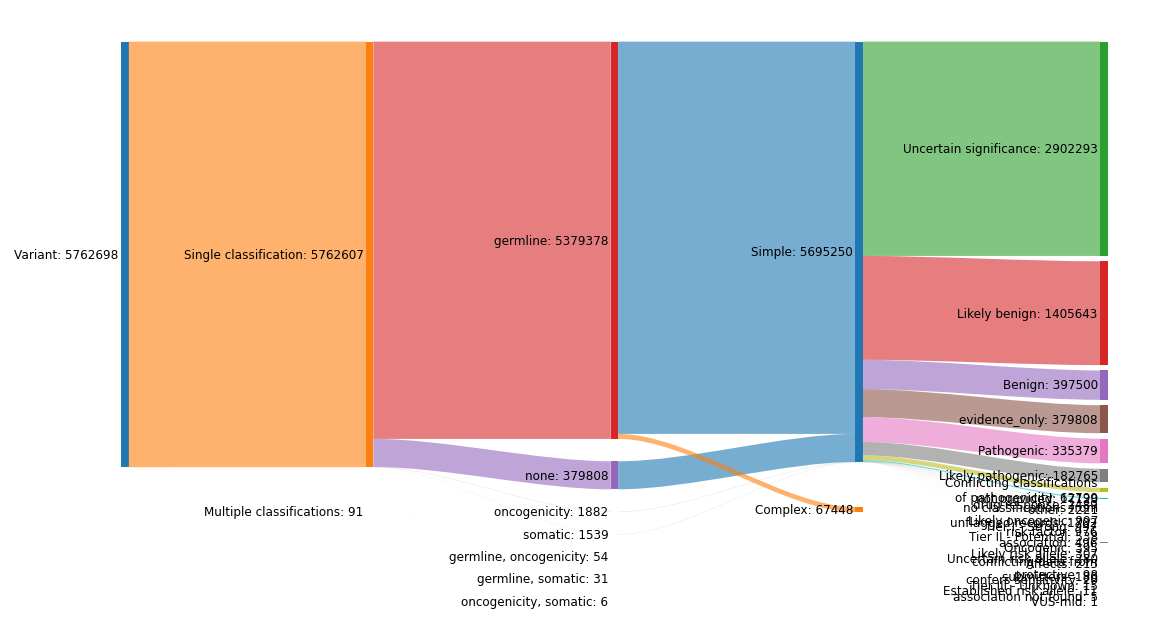
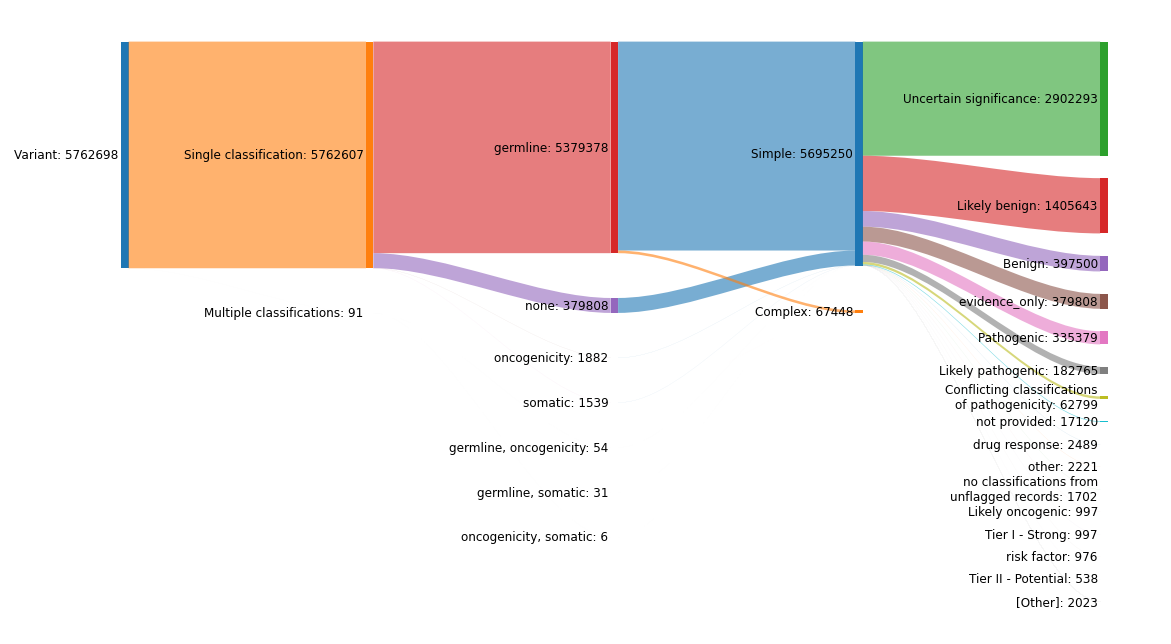
update classifcation and star rating diagrams

diff --git a/data-exploration/clinvar-variant-types/clinvar-variant-types.py b/data-exploration/clinvar-variant-types/clinvar-variant-types.py
@@ -61,8 +61,7 @@ class SankeyDiagram(Counter):
         s.draw()
         plt.savefig(self.name, bbox_inches='tight')
 
-    def _format_label(self, label):
-        max_len = 20
+    def _format_label(self, label, max_len=20):
         words = label.split()
         lines = []
         line = []
@@ -75,7 +74,7 @@ class SankeyDiagram(Counter):
 
     def _apply_threshold(self, nodes, flows, threshold):
         """Recompute nodes and flows by combining nodes at the final level with value less than threshold."""
-        new_node_name = 'Other'
+        new_node_name = '[Other]'
         new_nodes = nodes[:-1]
         new_final_level = []
         new_value = 0
@@ -382,8 +381,8 @@ def main(clinvar_xml, process_items=None):
     # Output the code for Sankey diagrams. Transitions are sorted in decreasing number of counts, so that the most frequent
     # cases are on top.
     for sankey_diagram in (sankey_variation_representation, sankey_trait_representation, sankey_trait_quality,
-                           sankey_clinical_classification, sankey_somatic_classification,
-                           sankey_mode_of_inheritance, sankey_allele_origin, sankey_inheritance_origin):
+                           sankey_somatic_classification, sankey_mode_of_inheritance, sankey_allele_origin,
+                           sankey_inheritance_origin):
         print('\n')
         print(sankey_diagram)
         try:
@@ -393,12 +392,14 @@ def main(clinvar_xml, process_items=None):
             continue
 
     # Sankey diagrams requiring thresholding
-    print('\n')
-    print(sankey_star_rating)
-    try:
-        sankey_star_rating.generate_diagram(threshold=1000)
-    except Exception as e:
-        print(e)
+    for sankey_diagram, threshold in [(sankey_star_rating, 1000), (sankey_clinical_classification, 500)]:
+        print('\n')
+        print(sankey_diagram)
+        try:
+            sankey_diagram.generate_diagram(threshold=threshold)
+        except Exception as e:
+            print(e)
+            continue
 
     # Output the supplementary tables for the report.
     for supplementary_table in (counter_trait_xrefs, counter_clin_class_complex, counter_clin_class_all,
